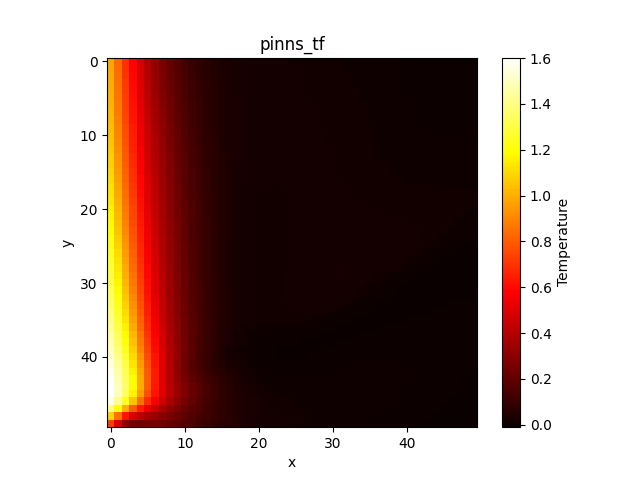
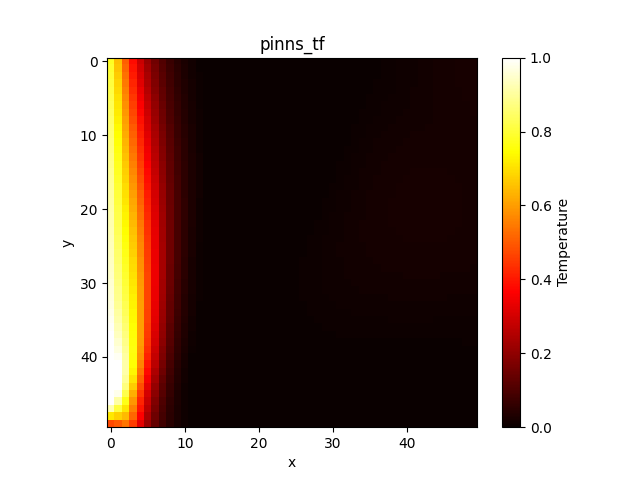
bounding the colorbar/heatmap by [0,1] to ensure the FDM and PINN heatmaps are in the same interval

diff --git a/src/show_images.py b/src/show_images.py
@@ -4,7 +4,8 @@ from setting import *
 import numpy as np
 import torch
 
-def show_image(*images, image_name: list, save: bool | int = False):
+def show_image(*images, image_name: list, save: bool | int = False,
+               vmin: float = 0.0, vmax: float = 1.0):
     """
     Args:
         images: numpy matrix
@@ -14,7 +15,7 @@ def show_image(*images, image_name: list, save: bool | int = False):
     number_of_images = len(images)
     if number_of_images == 1:
         plt.figure()
-        plt.imshow(images[0], cmap='hot')
+        plt.imshow(images[0], cmap='hot', vmin=vmin, vmax=vmax)
         plt.title(image_name[0])
         plt.colorbar(label='Temperature')
         plt.xlabel('x')
@@ -27,7 +28,7 @@ def show_image(*images, image_name: list, save: bool | int = False):
     else:
         _, ax = plt.subplots(nrows=1, ncols= number_of_images, figsize=(5 * number_of_images, 5))
         for i in range(number_of_images):
-            ax[i].imshow(images[i])
+            ax[i].imshow(images[i], vmin=vmin, vmax=vmax)
             ax[i].set_title(image_name[i])
         if save:
             image_path = os.path.join(results_path, f'{image_name[-1]}.png')
